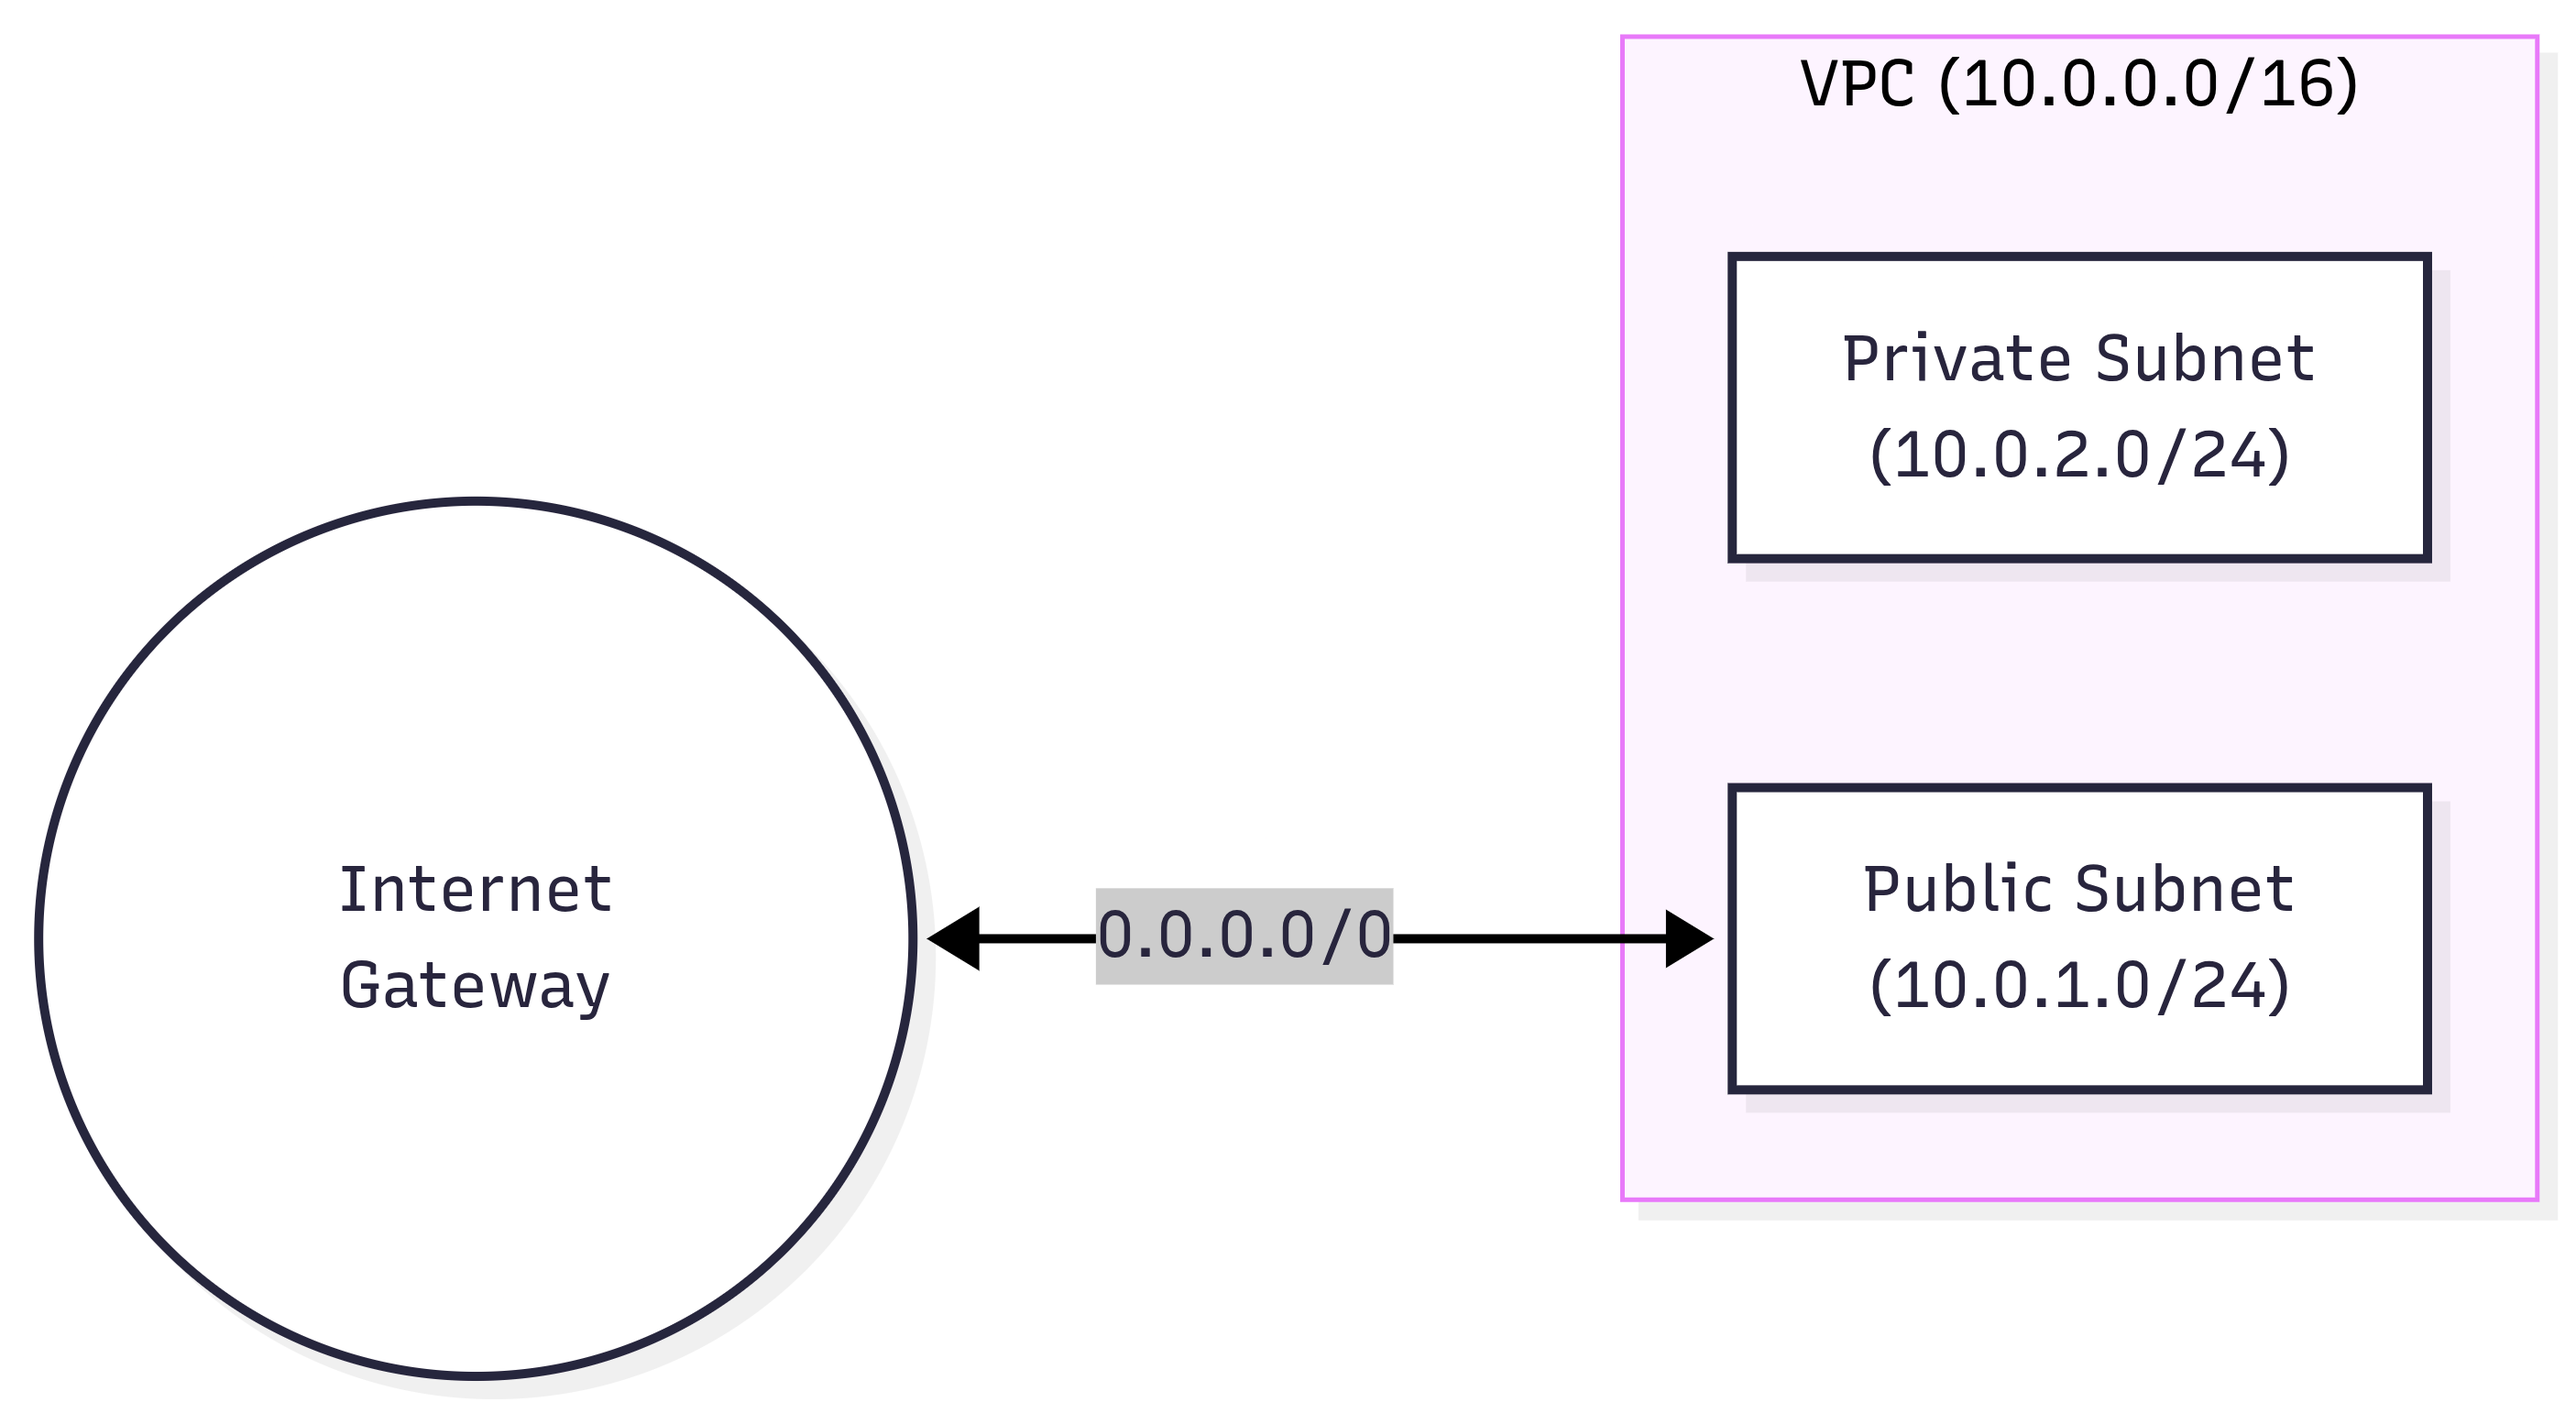
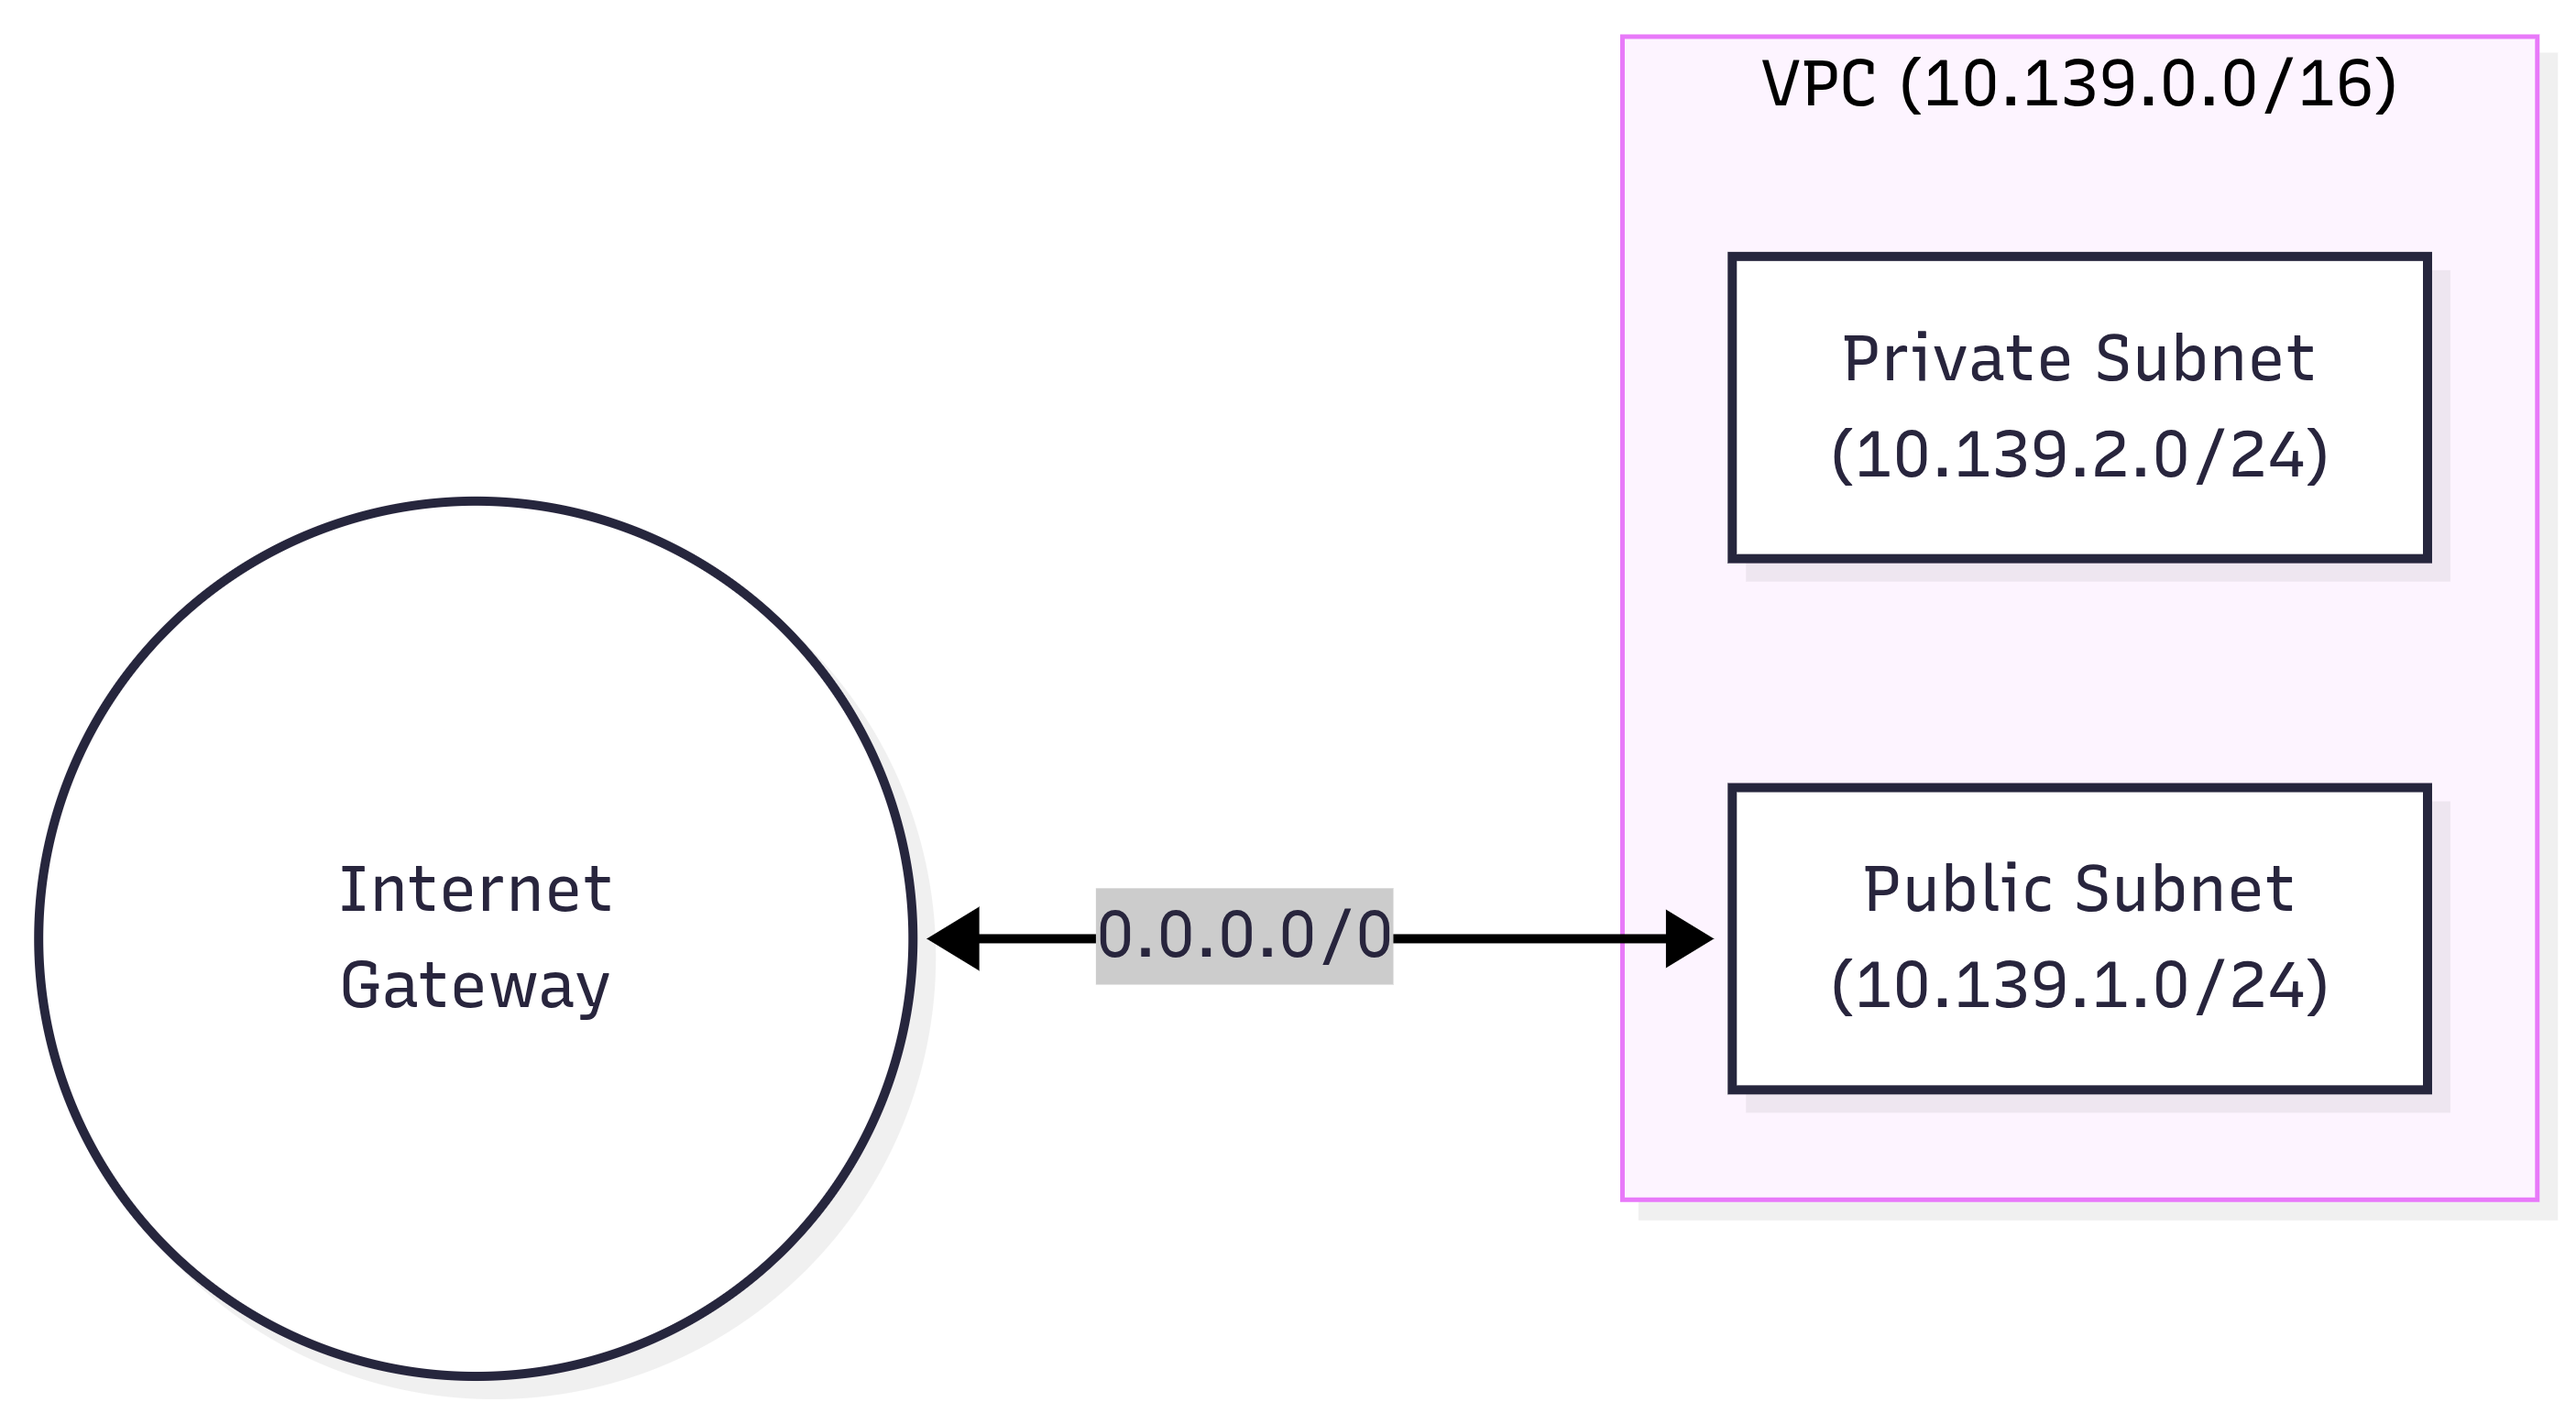
Update VPC diagram with X=139 and fix typos

Changed region(s): [[0.6809, 0.0311, 0.9285, 0.0934], [0.7118, 0.2802, 0.8975, 0.3424], [0.7118, 0.6848, 0.8975, 0.716]]

diff --git a/submissions/assignment-2/TroyMichaelCamarillo/submission.md b/submissions/assignment-2/TroyMichaelCamarillo/submission.md
@@ -102,7 +102,7 @@ No because a private subnet uses a route table with the local route only. Withou
 
 How is a network ACL different from a security group?
 
-A network ACL protects a whole subnet and is stateless. It's replies need their own outbound rule. A security group protects a signle resource, is stateful, and has allow only rules whereas a network ACL can also have deny rules.
+A network ACL protects a whole subnet and is stateless. It's replies need their own outbound rule. A security group protects a single resource, is stateful, and has allow only rules whereas a network ACL can also have deny rules.
 
 Screenshot 3. Save it as `screenshot-3-network-acl.png` in your folder. The image line below shows it.
 
@@ -124,8 +124,8 @@ Other resources that are assigned to the same security group.
 
 ### B1. Plan two subnets
 
-- Public subnet CIDR: 10.0.1.0/24
-- Private subnet CIDR: 10.0.2.0/24
+- Public subnet CIDR: 10.139.1.0/24
+- Private subnet CIDR: 10.139.2.0/24
 
 ### B2. Route tables
 
@@ -133,14 +133,14 @@ Route table of the public subnet:
 
 | Destination | Target |
 | --- | --- |
-| 10.0.0.0/16 | local |
+| 10.139.0.0/16 | local |
 | 0.0.0.0/0 | igw |
 
 Route table of the private subnet:
 
 | Destination | Target |
 | --- | --- |
-| 10.0.0.16 | local |
+| 10.139.0.0/16 | local |
 
 ### B3. My VPC diagram
 
@@ -172,4 +172,4 @@ The private subnet. Databases contain sensitive back-end data and should never b
 
 What is your question, and what made you think of it?
 
-If security groups are stateful and network ACLs are stateless, if they conflict with each other, which one takes priority and blocks the traffic e.g security group allows traffic but ACL denies it.
+If security groups are stateful and network ACLs are stateless, if they conflict with each other, which one takes priority and blocks the traffic e.g security group allows traffic but ACL denies it?
